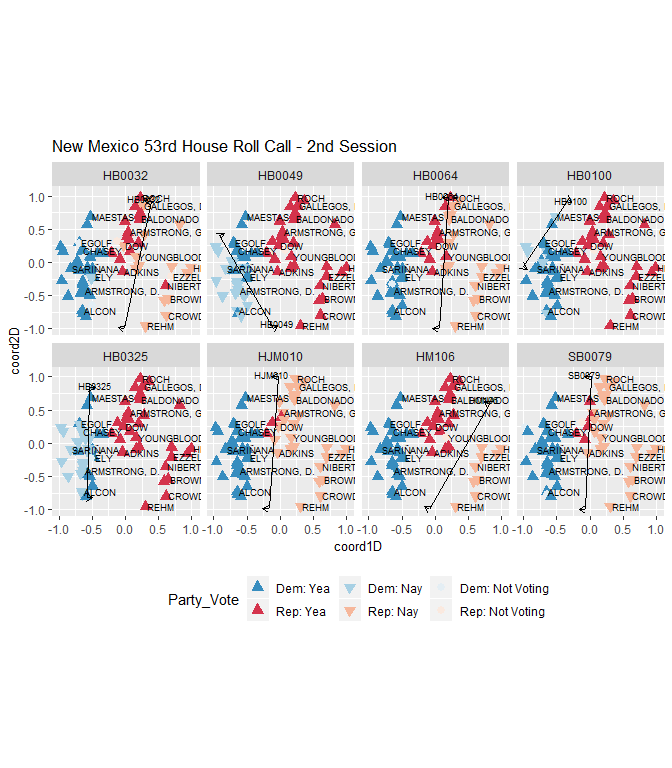
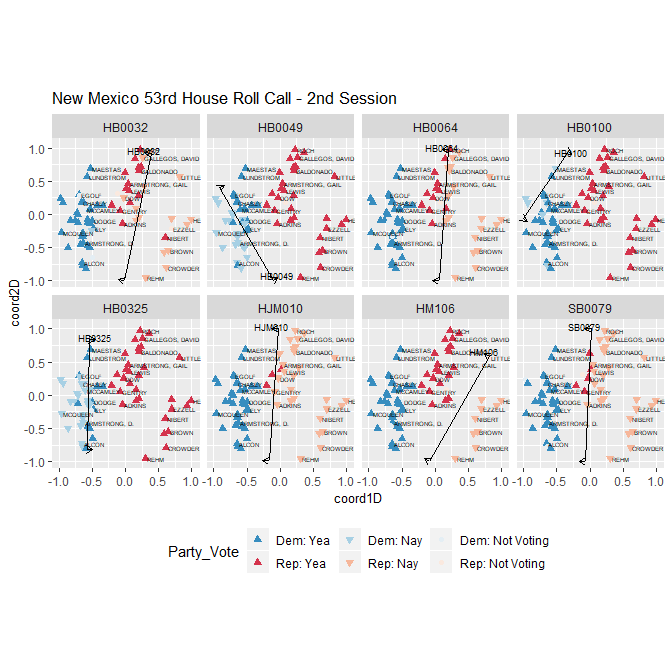
re

Changed region(s): [[0.0, 0.125, 1.0, 0.8438], [0.6875, 0.75, 0.8125, 0.8438], [0.25, 0.75, 0.375, 0.8438]]

diff --git a/README.md b/README.md
@@ -81,7 +81,7 @@ resultd2 <- wnominate::wnominate (datRC,
 ## 
 ## 
 ## W-NOMINATE estimation completed successfully.
-## W-NOMINATE took 2.33 seconds to execute.
+## W-NOMINATE took 2.37 seconds to execute.
 ```
 
 ### Plot two-dimensional model
@@ -251,7 +251,7 @@ cut_sub <- subset(with_cuts, Bill_ID %in% select_cuts)
 sub %>%
 ggplot(aes(x=coord1D, y=coord2D)) +
   geom_point(aes(color = Party_Vote, shape= Party_Vote, fill = Party_Vote),
-             size= 2.5) +
+             size= 1.5) +
   nmlegisdatr::nml_color_vote() +
   nmlegisdatr::nml_fill_vote() +
   nmlegisdatr::nml_shape_vote()+
@@ -259,7 +259,7 @@ ggplot(aes(x=coord1D, y=coord2D)) +
         plot.title = element_text(size=13), 
         axis.title = element_text(size=10)) +
   geom_text(aes(label=Representative), 
-            size=2.5, 
+            size=1.5, 
             check_overlap = TRUE, 
             hjust = 0, 
             nudge_x = 0.03)+
